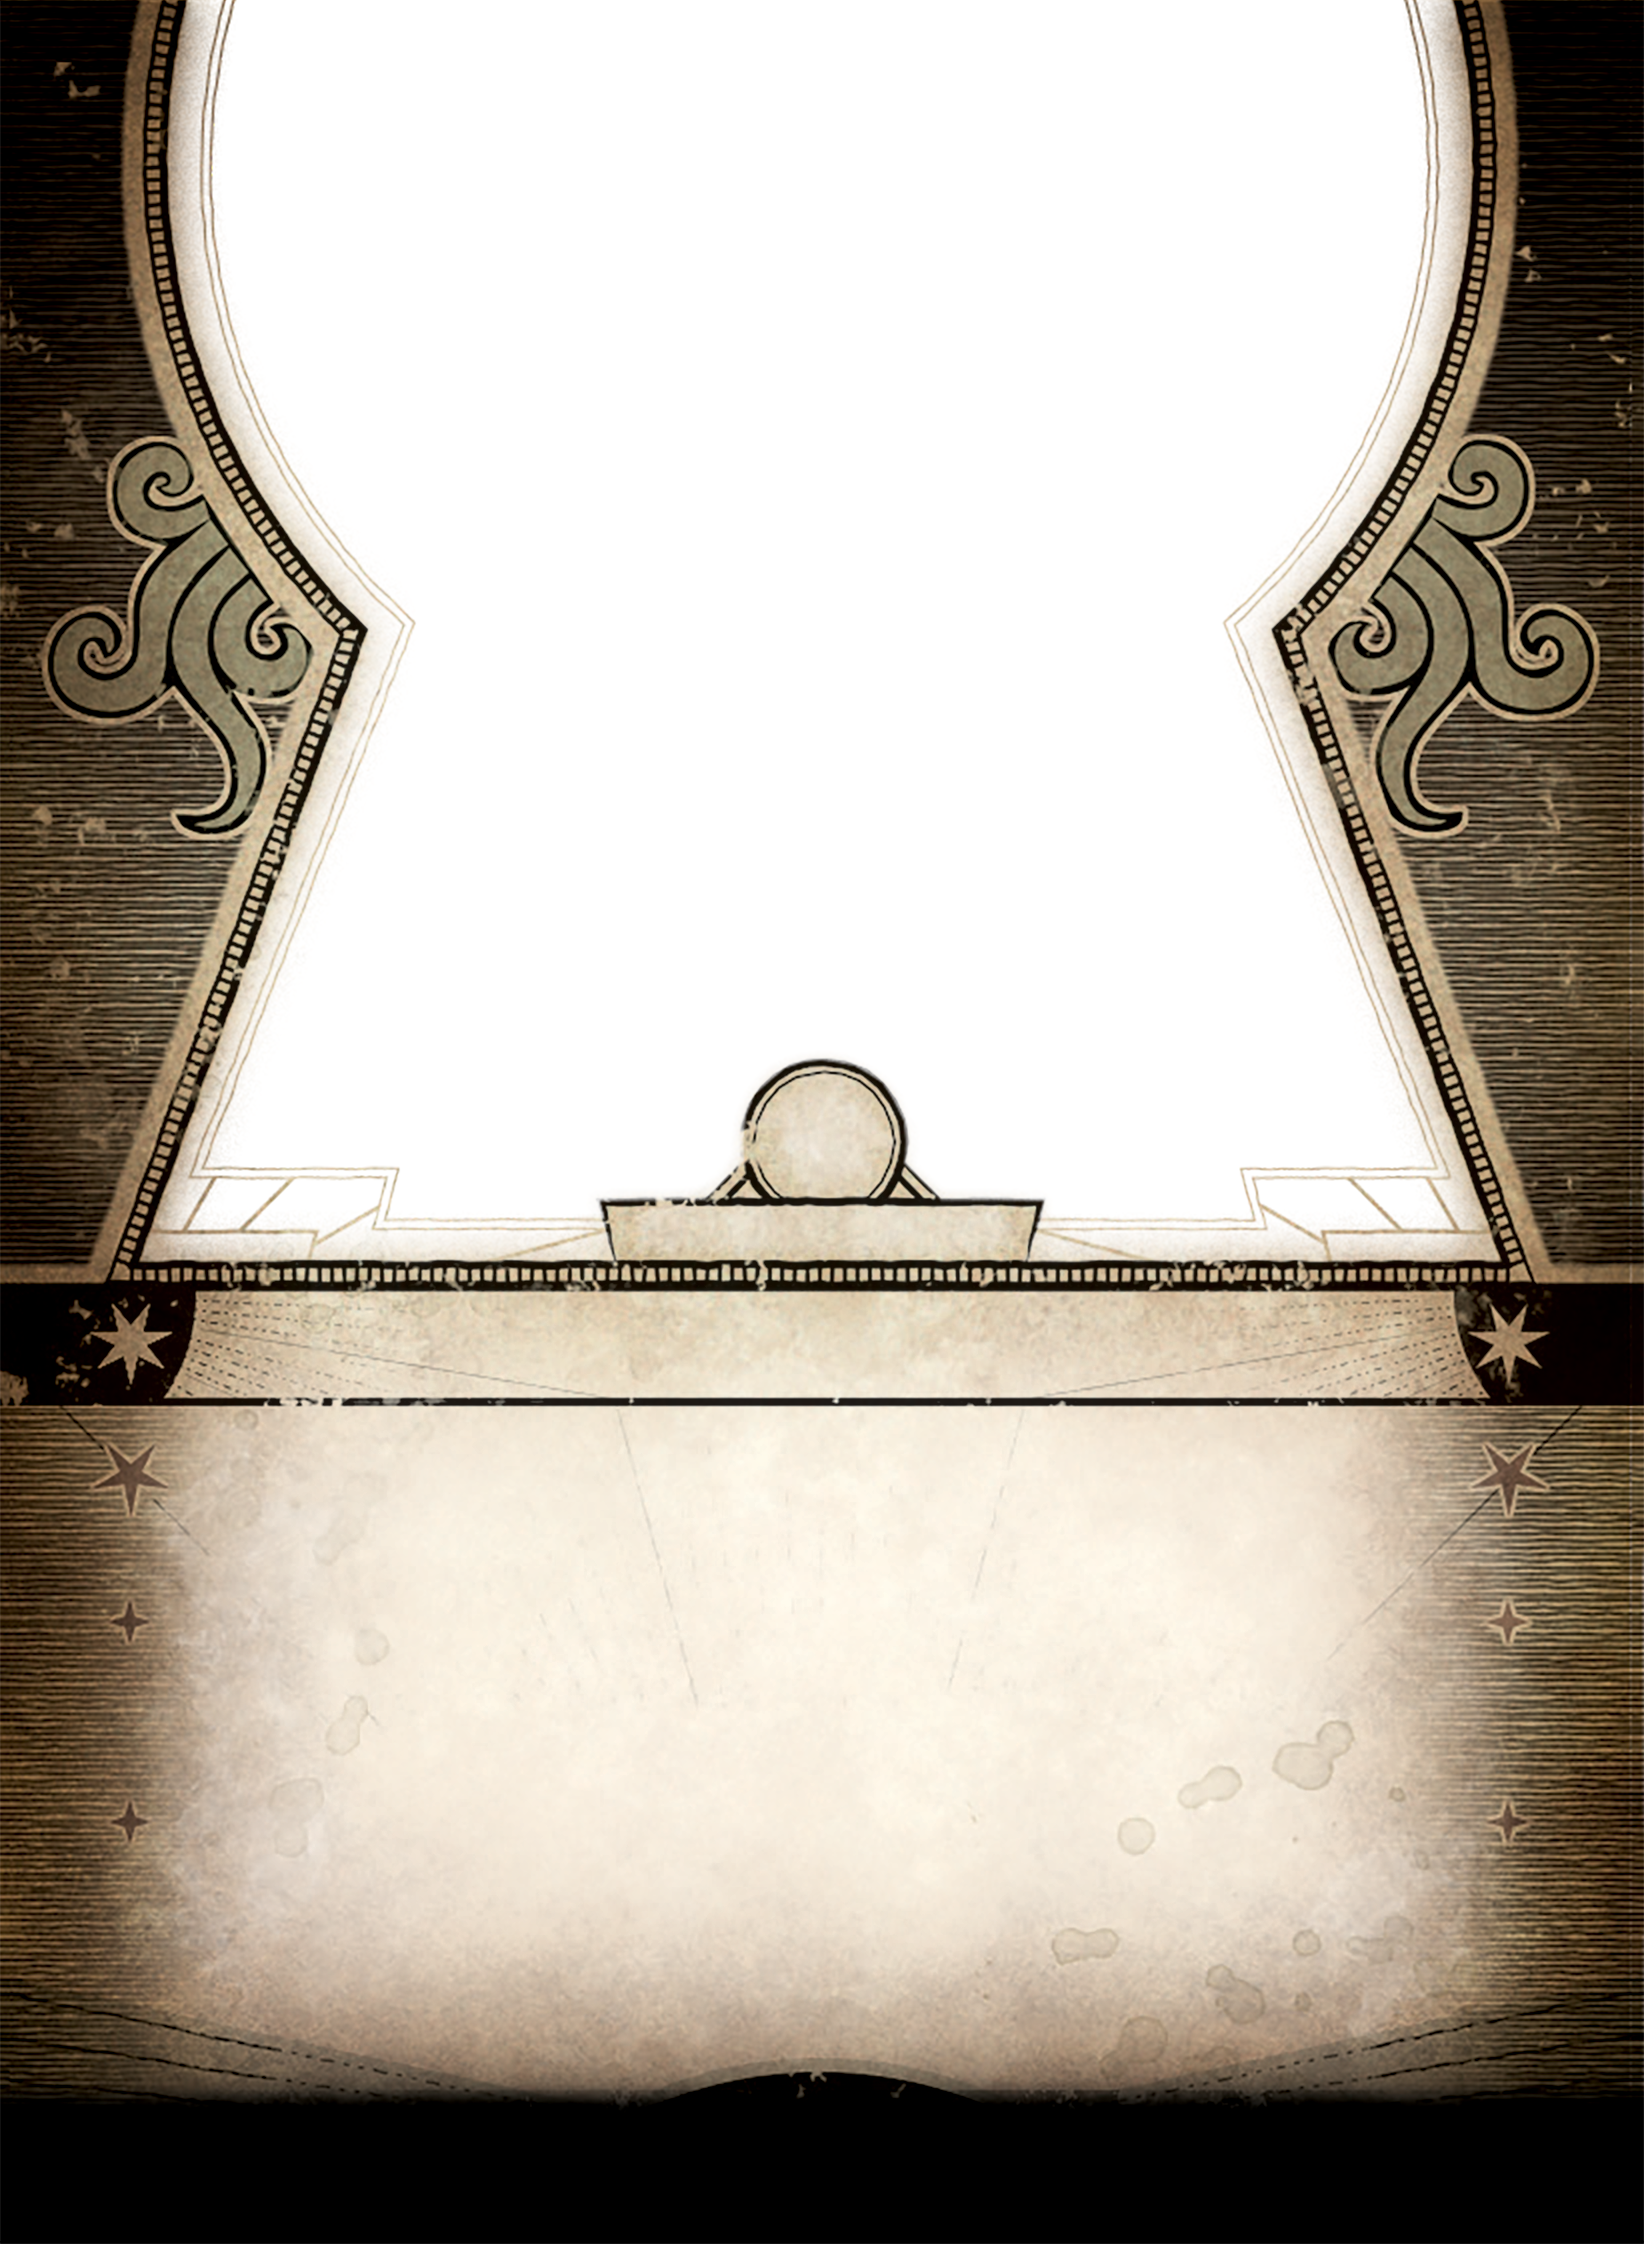
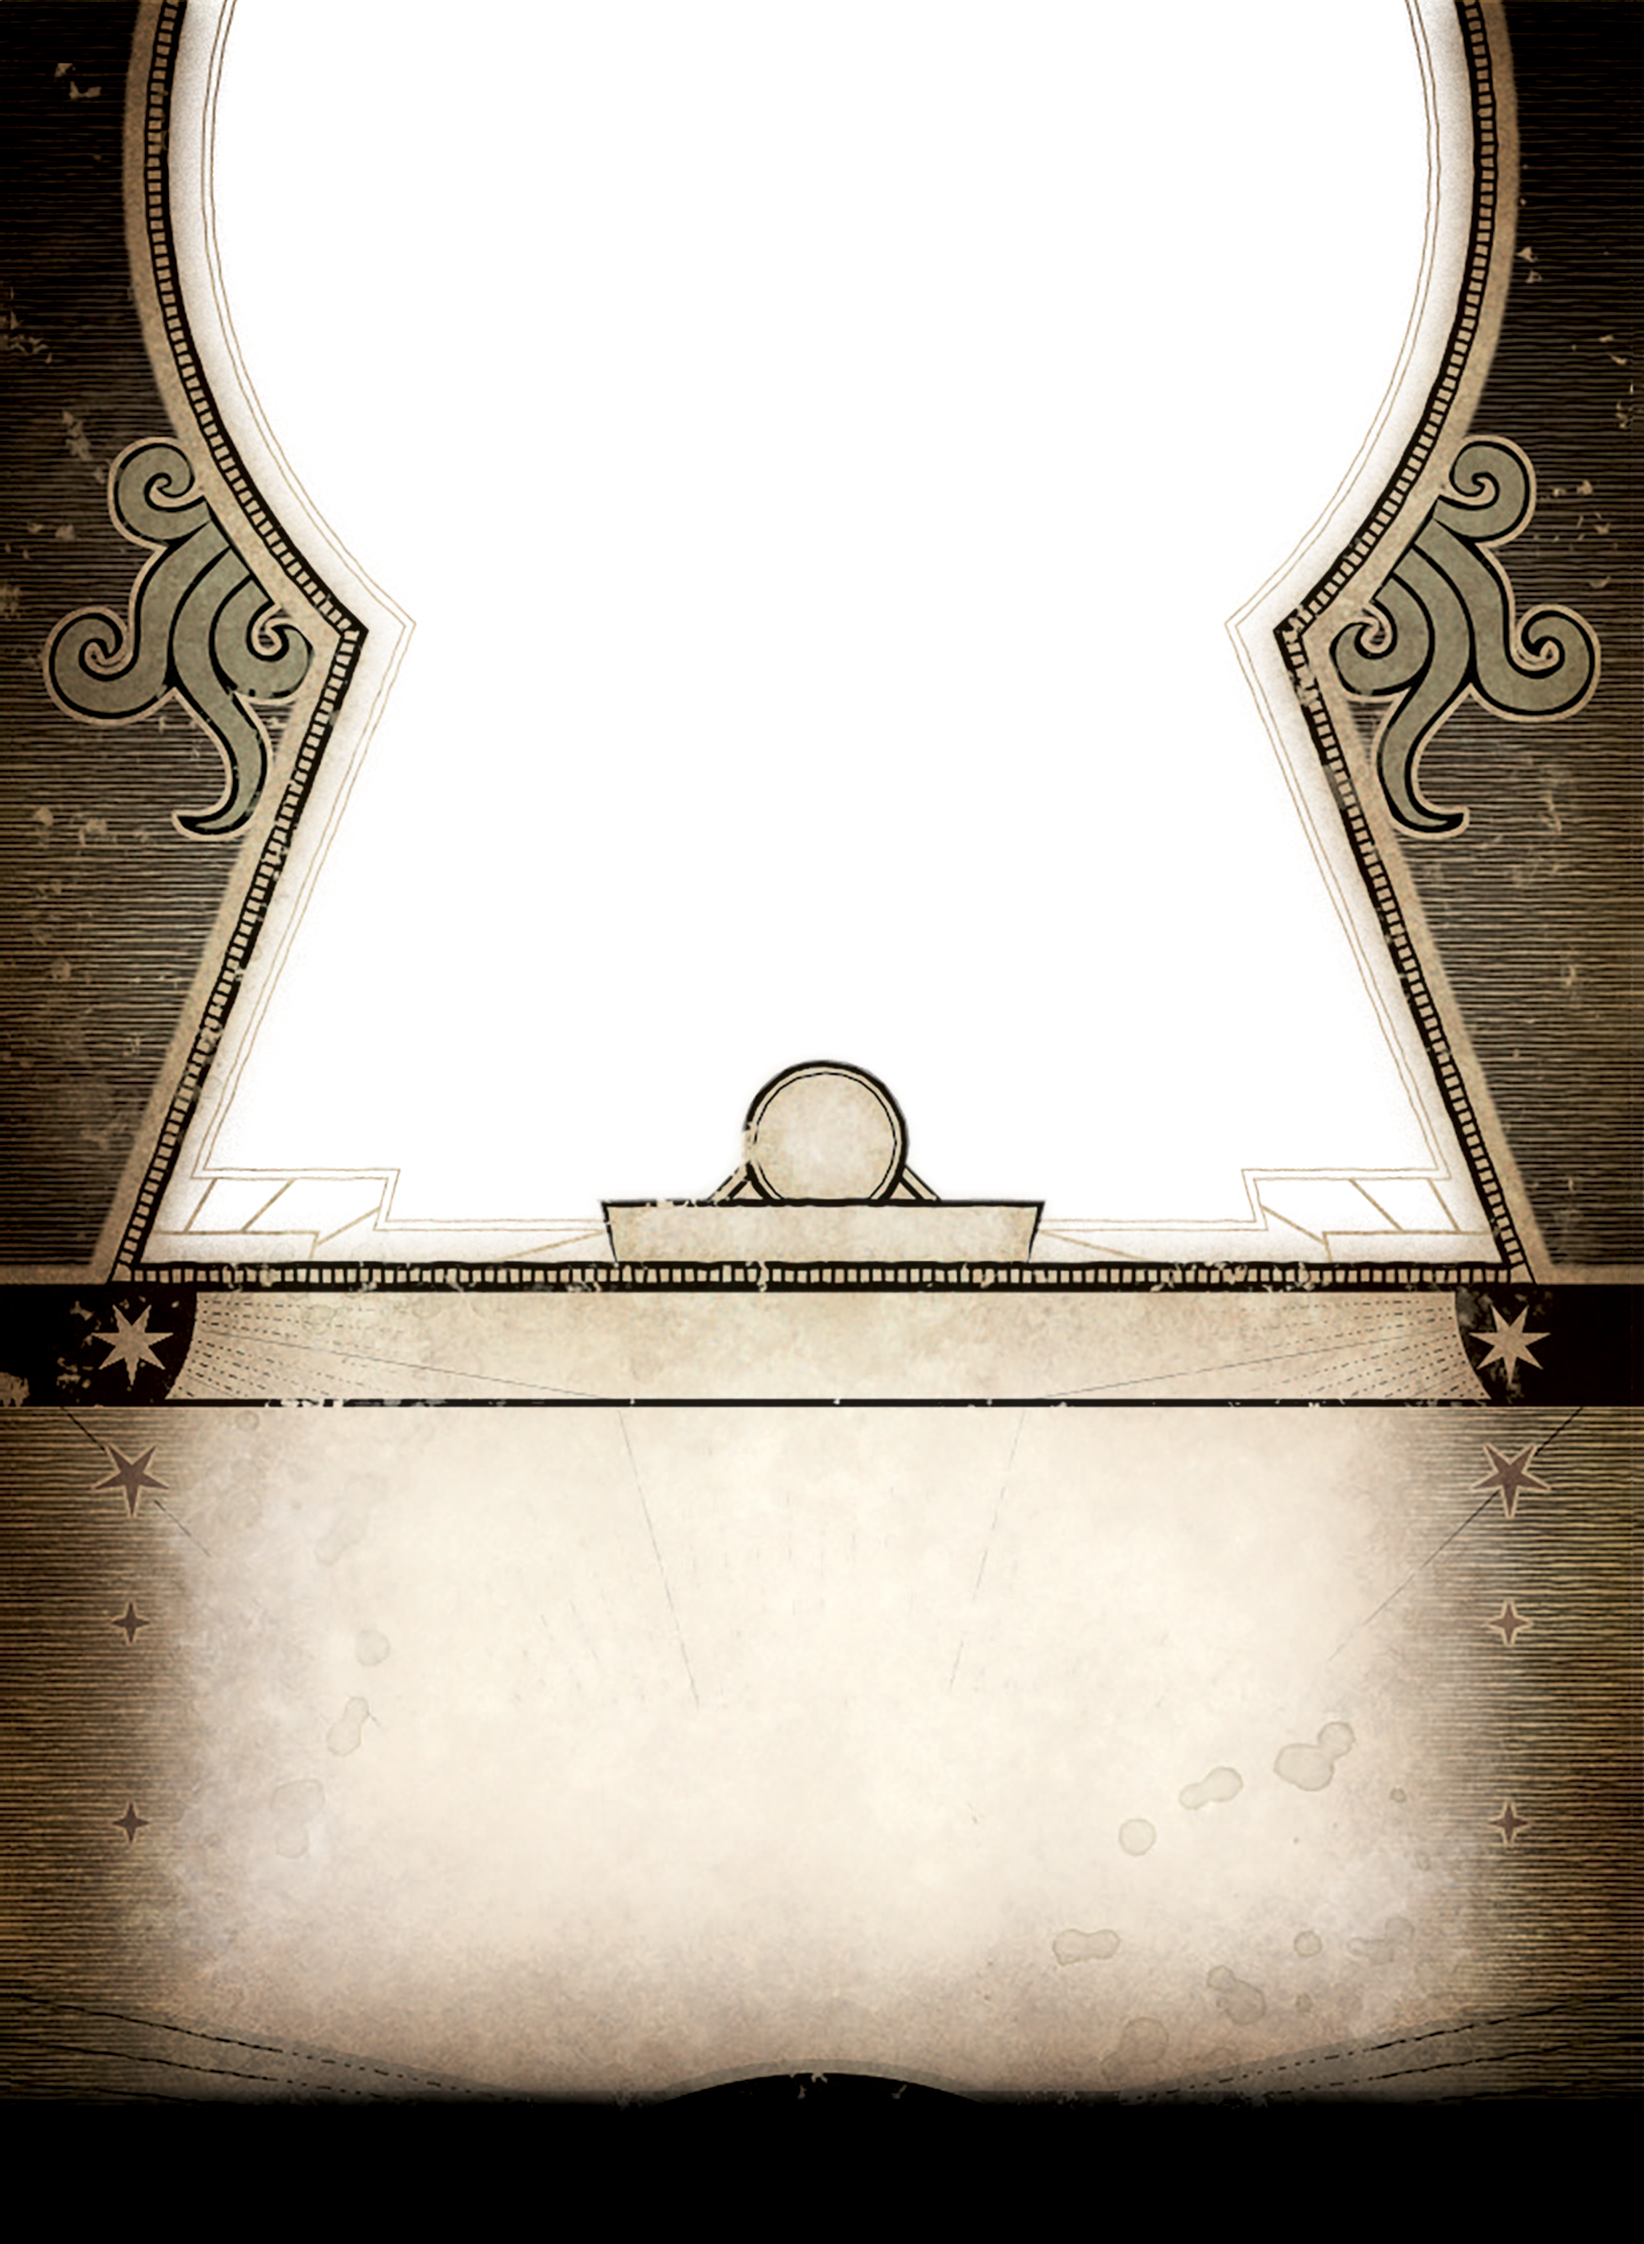
Minor tweaks to act/treachery template and art regions for act/agenda

Changed region(s): [[0.0, 0.0, 1.0, 0.9358], [0.4653, 0.4679, 0.5274, 0.4991], [0.8376, 0.9046, 0.8686, 0.9358]]

diff --git a/src/main/java/com/mickeytheq/hades/core/view/common/PlayerCardFieldsView.java b/src/main/java/com/mickeytheq/hades/core/view/common/PlayerCardFieldsView.java
@@ -244,14 +244,14 @@ public class PlayerCardFieldsView {
             // paint the skill box
             PaintUtils.paintBufferedImage(
                     paintContext.getGraphics(),
-                    ImageUtils.loadImageReadOnly(getClass().getResource("/overlays/skill_box_" + getDefaultResourcePrefix() + ".png")),
+                    ImageUtils.loadImageReadOnly("/overlays/skill_box_" + getDefaultResourcePrefix() + ".png"),
                     paintContext.toPixelRect(SKILL_BOX_DRAW_REGIONS.get(i))
             );
 
             // paint the skill icon
             PaintUtils.paintBufferedImage(
                     paintContext.getGraphics(),
-                    ImageUtils.loadImageReadOnly(getClass().getResource(getSkillIconResource(skillIcon))),
+                    ImageUtils.loadImageReadOnly(getSkillIconResource(skillIcon)),
                     paintContext.toPixelRect(SKILL_ICON_DRAW_REGIONS.get(i))
             );
         }

diff --git a/src/main/java/com/mickeytheq/hades/core/view/cardfaces/EventView.java b/src/main/java/com/mickeytheq/hades/core/view/cardfaces/EventView.java
@@ -219,7 +219,7 @@ public class EventView extends BaseCardFaceView<Event> implements HasCollectionV
         for (int i = 0; i < playerCardClasses.size(); i++) {
             PlayerCardClass playerCardClass = playerCardClasses.get(i);
 
-            BufferedImage classSymbol = ImageUtils.loadImageReadOnly(getClass().getResource("/overlays/class_symbols/" + playerCardClass.name().toLowerCase() + ".png"));
+            BufferedImage classSymbol = ImageUtils.loadImageReadOnly("/overlays/class_symbols/" + playerCardClass.name().toLowerCase() + ".png");
 
             Rectangle rectangle = paintContext.toPixelRect(drawRegions.get(i));
 

diff --git a/src/main/java/com/mickeytheq/hades/core/view/cardfaces/ActView.java b/src/main/java/com/mickeytheq/hades/core/view/cardfaces/ActView.java
@@ -34,7 +34,7 @@ public class ActView extends BaseCardFaceView<Act> implements HasCollectionView,
     private JTextField deckIdEditor;
     private StatisticComponent cluesEditor;
 
-    private static final RectangleEx ART_PORTRAIT_DRAW_REGION = RectangleEx.millimetres(37.25, 0.00, 54.65, 69.50);
+    private static final RectangleEx ART_PORTRAIT_DRAW_REGION = RectangleEx.millimetres(37.25, 0.00, 57.65, 69.50);
 
     @Override
     public void initialiseView() {

diff --git a/src/main/java/com/mickeytheq/hades/core/view/cardfaces/AgendaView.java b/src/main/java/com/mickeytheq/hades/core/view/cardfaces/AgendaView.java
@@ -34,7 +34,7 @@ public class AgendaView extends BaseCardFaceView<Agenda> implements HasCollectio
     private JTextField deckIdEditor;
     private StatisticComponent doomEditor;
 
-    private static final RectangleEx ART_PORTRAIT_DRAW_REGION = RectangleEx.millimetres(0.00, 0.00, 54.65, 69.50);
+    private static final RectangleEx ART_PORTRAIT_DRAW_REGION = RectangleEx.millimetres(0.00, 0.00, 57.65, 69.50);
 
     @Override
     public void initialiseView() {

diff --git a/src/main/java/com/mickeytheq/hades/scratchpad/QuickCardView.java b/src/main/java/com/mickeytheq/hades/scratchpad/QuickCardView.java
@@ -69,13 +69,13 @@ public class QuickCardView {
         ProjectContexts.withContext(projectContext, () -> {
 //            shadow();
 //            investigator();
-            asset();
+//            asset();
 //        event();
 //        skill();
 //        treachery();
 //            location();
 //            random();
-//            agenda();
+            agenda();
 //            act();
 //            enemy();
 //            scenarioReference();
